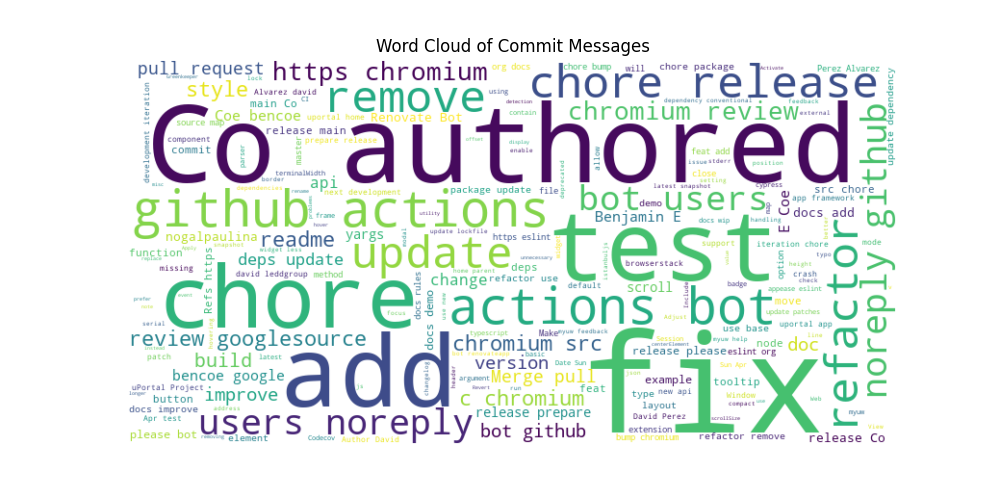
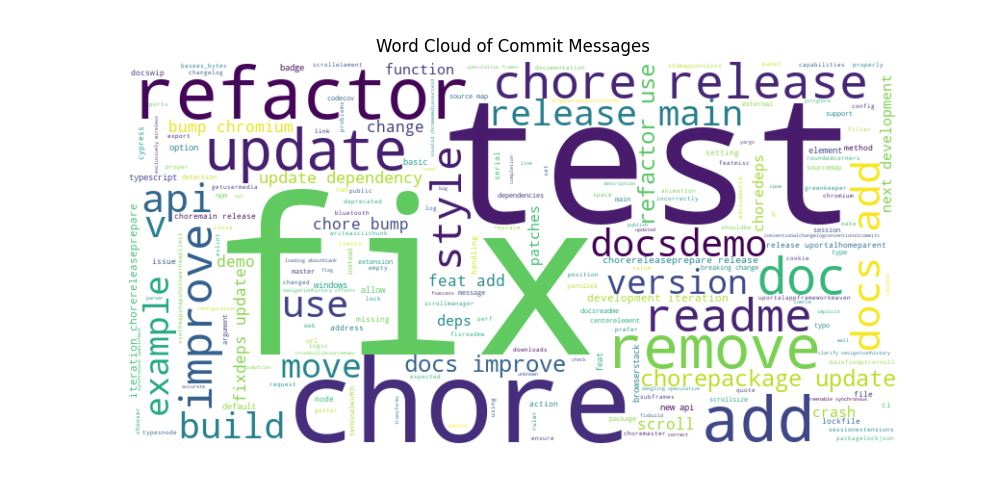
feat: data preprocess

diff --git a/commands/cleaned_commits.py b/commands/cleaned_commits.py
@@ -1,0 +1,42 @@
+import click
+import pandas as pd
+import re
+
+# Cleaning function
+def clean_text(text):
+    text = text.lower()  # lowercase
+    text = re.sub(r"[^\w\s]", "", text)  # remove punctuation
+    text = re.sub(r"\d+", "", text)  # remove numbers
+    text = re.sub(r"\s+", " ", text)  # normalize whitespace
+    return text.strip()
+
+@click.command()
+@click.option("--input_file", default="data/csv_data/labeled_commits.csv", type=click.Path(exists=True), help="Path to the labeled commit CSV file.")
+@click.option("--output_file", default="data/csv_data/cleaned_commits.csv", type=click.Path(), help="Path to save the cleaned CSV file.")
+@click.option("--nonconv_output", default="data/csv_data/non_conventional_commits.csv", type=click.Path(), help="Path to save the non-conventional commits.")
+def clean_commits(input_file, output_file, nonconv_output):
+    """Cleans commit messages, saves cleaned data and non-conventional commits separately (no vectorization)."""
+    click.echo(f"Loading data from {input_file}...")
+    df = pd.read_csv(input_file)
+
+    # Drop rows with missing values
+    df.dropna(subset=["Commit Message", "DEMPE Function Class"], inplace=True)
+
+    # Separate non-conventional commits
+    non_conventional = df[df["DEMPE Function Class"] == "Non-conventional"]
+    df = df[df["DEMPE Function Class"] != "Non-conventional"]
+
+    # Clean commit messages
+    click.echo("Cleaning commit messages...")
+    df["Commit Message"] = df["Commit Message"].astype(str).apply(clean_text)
+
+    # Save cleaned data
+    df[["Raw Serial Number", "Commit Message", "DEMPE Function Class"]].to_csv(output_file, index=False)
+    click.echo(f"Cleaned commits saved to {output_file}")
+
+    # Save non-conventional data
+    non_conventional.to_csv(nonconv_output, index=False)
+    click.echo(f"Non-conventional commits saved to {nonconv_output}")
+
+if __name__ == "__main__":
+    clean_commits()

diff --git a/commands/split_train_test.py b/commands/split_train_test.py
@@ -3,23 +3,22 @@ import pandas as pd
 from sklearn.model_selection import train_test_split
 
 @click.command()
-@click.option("--input_file", default="data/csv_data/labeled_commits.csv", type=click.Path(exists=True), help="Path to the labeled CSV file.")
+@click.option("--input_file", default="data/csv_data/cleaned_commits.csv", type=click.Path(exists=True), help="Path to the labeled CSV file.")
 @click.option("--train_output", default="data/csv_data/train_set.csv", type=click.Path(), help="Path to save the training set.")
 @click.option("--test_output", default="data/csv_data/test_set.csv", type=click.Path(), help="Path to save the test set.")
 @click.option("--test_size", default=0.2, help="Proportion of the dataset to include in the test split.")
 def split_dataset(input_file, train_output, test_output, test_size):
-    """Splits the labeled dataset into training and test sets, excluding non-conventional commits."""
+    """
+    Splits the labeled dataset into training and test sets, excluding non-conventional commits.
+    Saves non-conventional commits separately.
+    """
     click.echo(f"Reading labeled data from {input_file}...")
     df = pd.read_csv(input_file)
-    df.dropna(subset=["Commit Message", "DEMPE Function Class"], inplace=True)
-
-    df = df[df["DEMPE Function Class"] != "Non-conventional"]
-    df["DEMPE Function Class"] = df["DEMPE Function Class"].astype(int)
-
+   
     X = df["Commit Message"]
     y = df["DEMPE Function Class"]
 
-    click.echo("Performing train-test split...")
+    click.echo("Performing train-test split on conventional commits...")
     X_train, X_test, y_train, y_test = train_test_split(
         X, y, test_size=test_size, random_state=42, stratify=y
     )
@@ -32,5 +31,3 @@ def split_dataset(input_file, train_output, test_output, test_size):
 
     click.echo(f"Training set saved to {train_output}")
     click.echo(f"Test set saved to {test_output}")
-
-

diff --git a/commands/visualize_labeled_commits.py b/commands/visualize_labeled_commits.py
@@ -22,7 +22,7 @@ DEMPE_CLASS_MAPPING = {
 
 # Command to plot DEMPE Function distribution
 @click.command()
-@click.option("--input_file", default="data/csv_data/labeled_commits.csv", type=click.Path(exists=True))
+@click.option("--input_file", default="data/csv_data/cleaned_commits.csv", type=click.Path(exists=True))
 @click.option("--output_file", default = "figures/dempe_dist.png", type=click.Path())
 def dempe_distribution(input_file, output_file):
     """Plots the distribution of commit messages across DEMPE functions and saves to output file."""
@@ -47,7 +47,7 @@ def dempe_distribution(input_file, output_file):
 
 # Command to generate word cloud
 @click.command()
-@click.option("--input_file", default="data/csv_data/labeled_commits.csv", type=click.Path(exists=True))
+@click.option("--input_file", default="data/csv_data/cleaned_commits.csv", type=click.Path(exists=True))
 @click.option("--output_file", default = "figures/wordcloud.png", type=click.Path())
 def wordcloud(input_file, output_file):
     """Generates a word cloud from commit messages and saves to output file."""
@@ -69,7 +69,7 @@ def wordcloud(input_file, output_file):
 
 # Command to visualize most common words in commit messages
 @click.command()
-@click.option("--input_file", default="data/csv_data/labeled_commits.csv", type=click.Path(exists=True))
+@click.option("--input_file", default="data/csv_data/cleaned_commits.csv", type=click.Path(exists=True))
 @click.option("--output_file", default = "figures/common_words.png", type=click.Path())
 def common_words(input_file, output_file):
     """Displays a bar chart of the most common words in commit messages and saves to output file."""

diff --git a/cli.py b/cli.py
@@ -6,6 +6,7 @@ from commands.label_commits import label_commits
 from commands.pipeline import run_pipeline
 from commands.visualize_labeled_commits import dempe_distribution, wordcloud, common_words 
 from commands.split_train_test import split_dataset
+from commands.cleaned_commits import  clean_commits
 
 @click.group()
 def cli():
@@ -21,13 +22,15 @@ def execute_pipeline():
     run_pipeline()
 
 # Add commands to the CLI group
-cli.add_command(fetch_commits)
-cli.add_command(extract_raw_commit_messages)
-cli.add_command(label_commits)
-cli.add_command(dempe_distribution)
-cli.add_command(wordcloud)
-cli.add_command(common_words)
-cli.add_command(split_dataset)
+cli.add_command(fetch_commits,name= "fetch-commits")
+cli.add_command(extract_raw_commit_messages,name= "extract-raw-commit_messages")
+cli.add_command(label_commits,name= "label-commits" )
+cli.add_command(dempe_distribution,name= "dempe-distribution")
+cli.add_command(wordcloud,name= "wordcloud")
+cli.add_command(common_words, name= "common-words")
+cli.add_command(split_dataset, name= "split-dataset")
+cli.add_command(clean_commits, name= "clean-commits")
+
 
 if __name__ == "__main__":
     cli()
